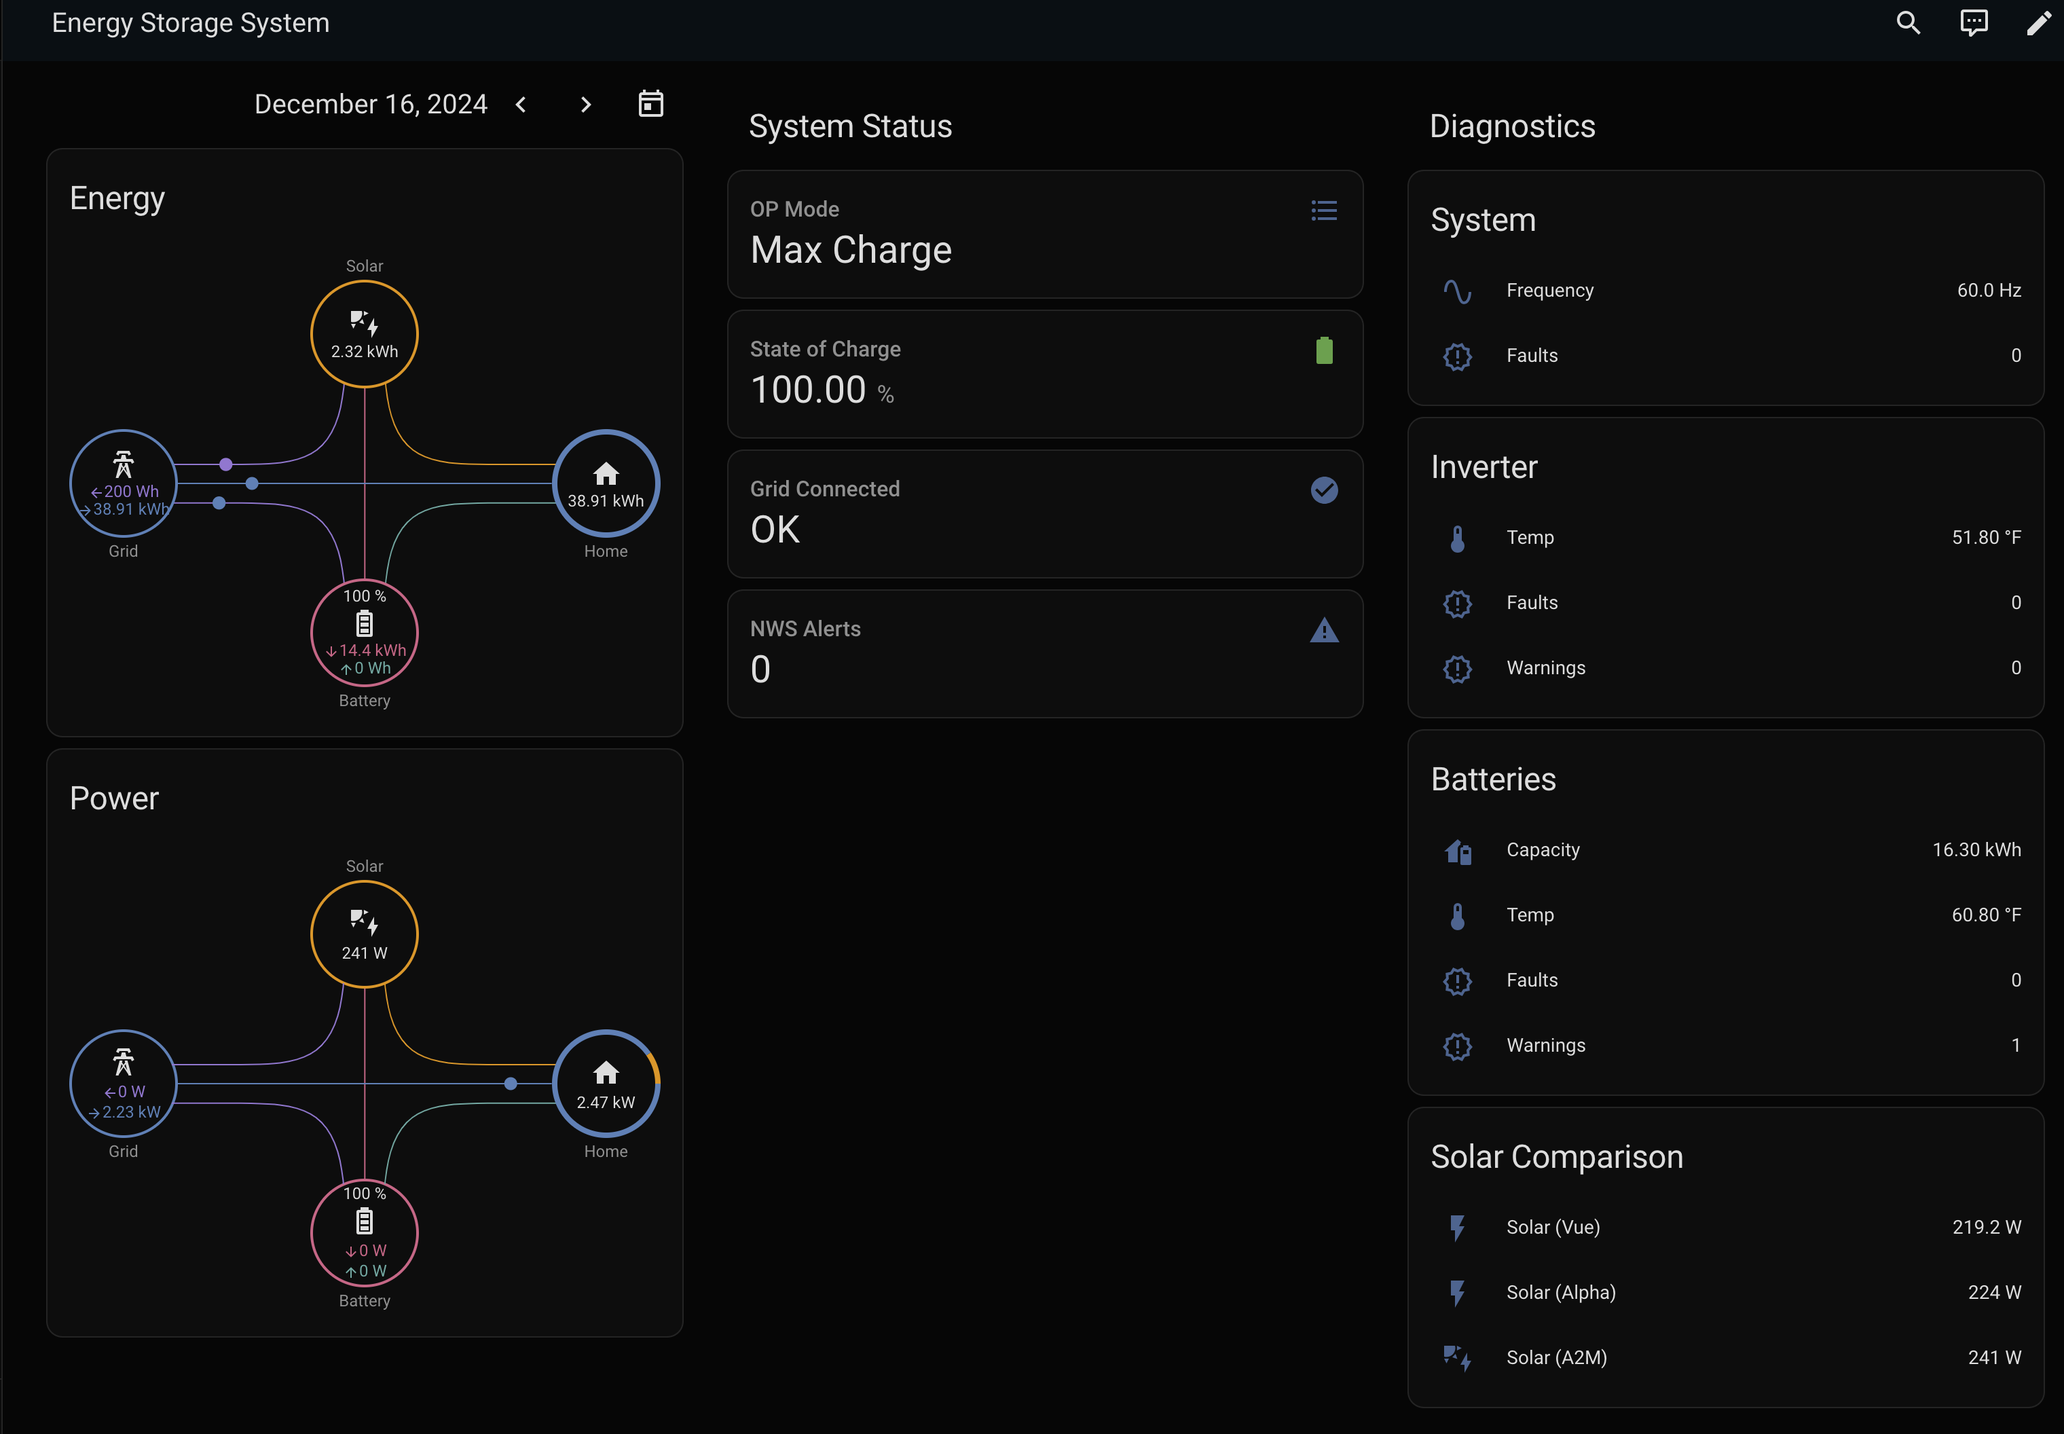
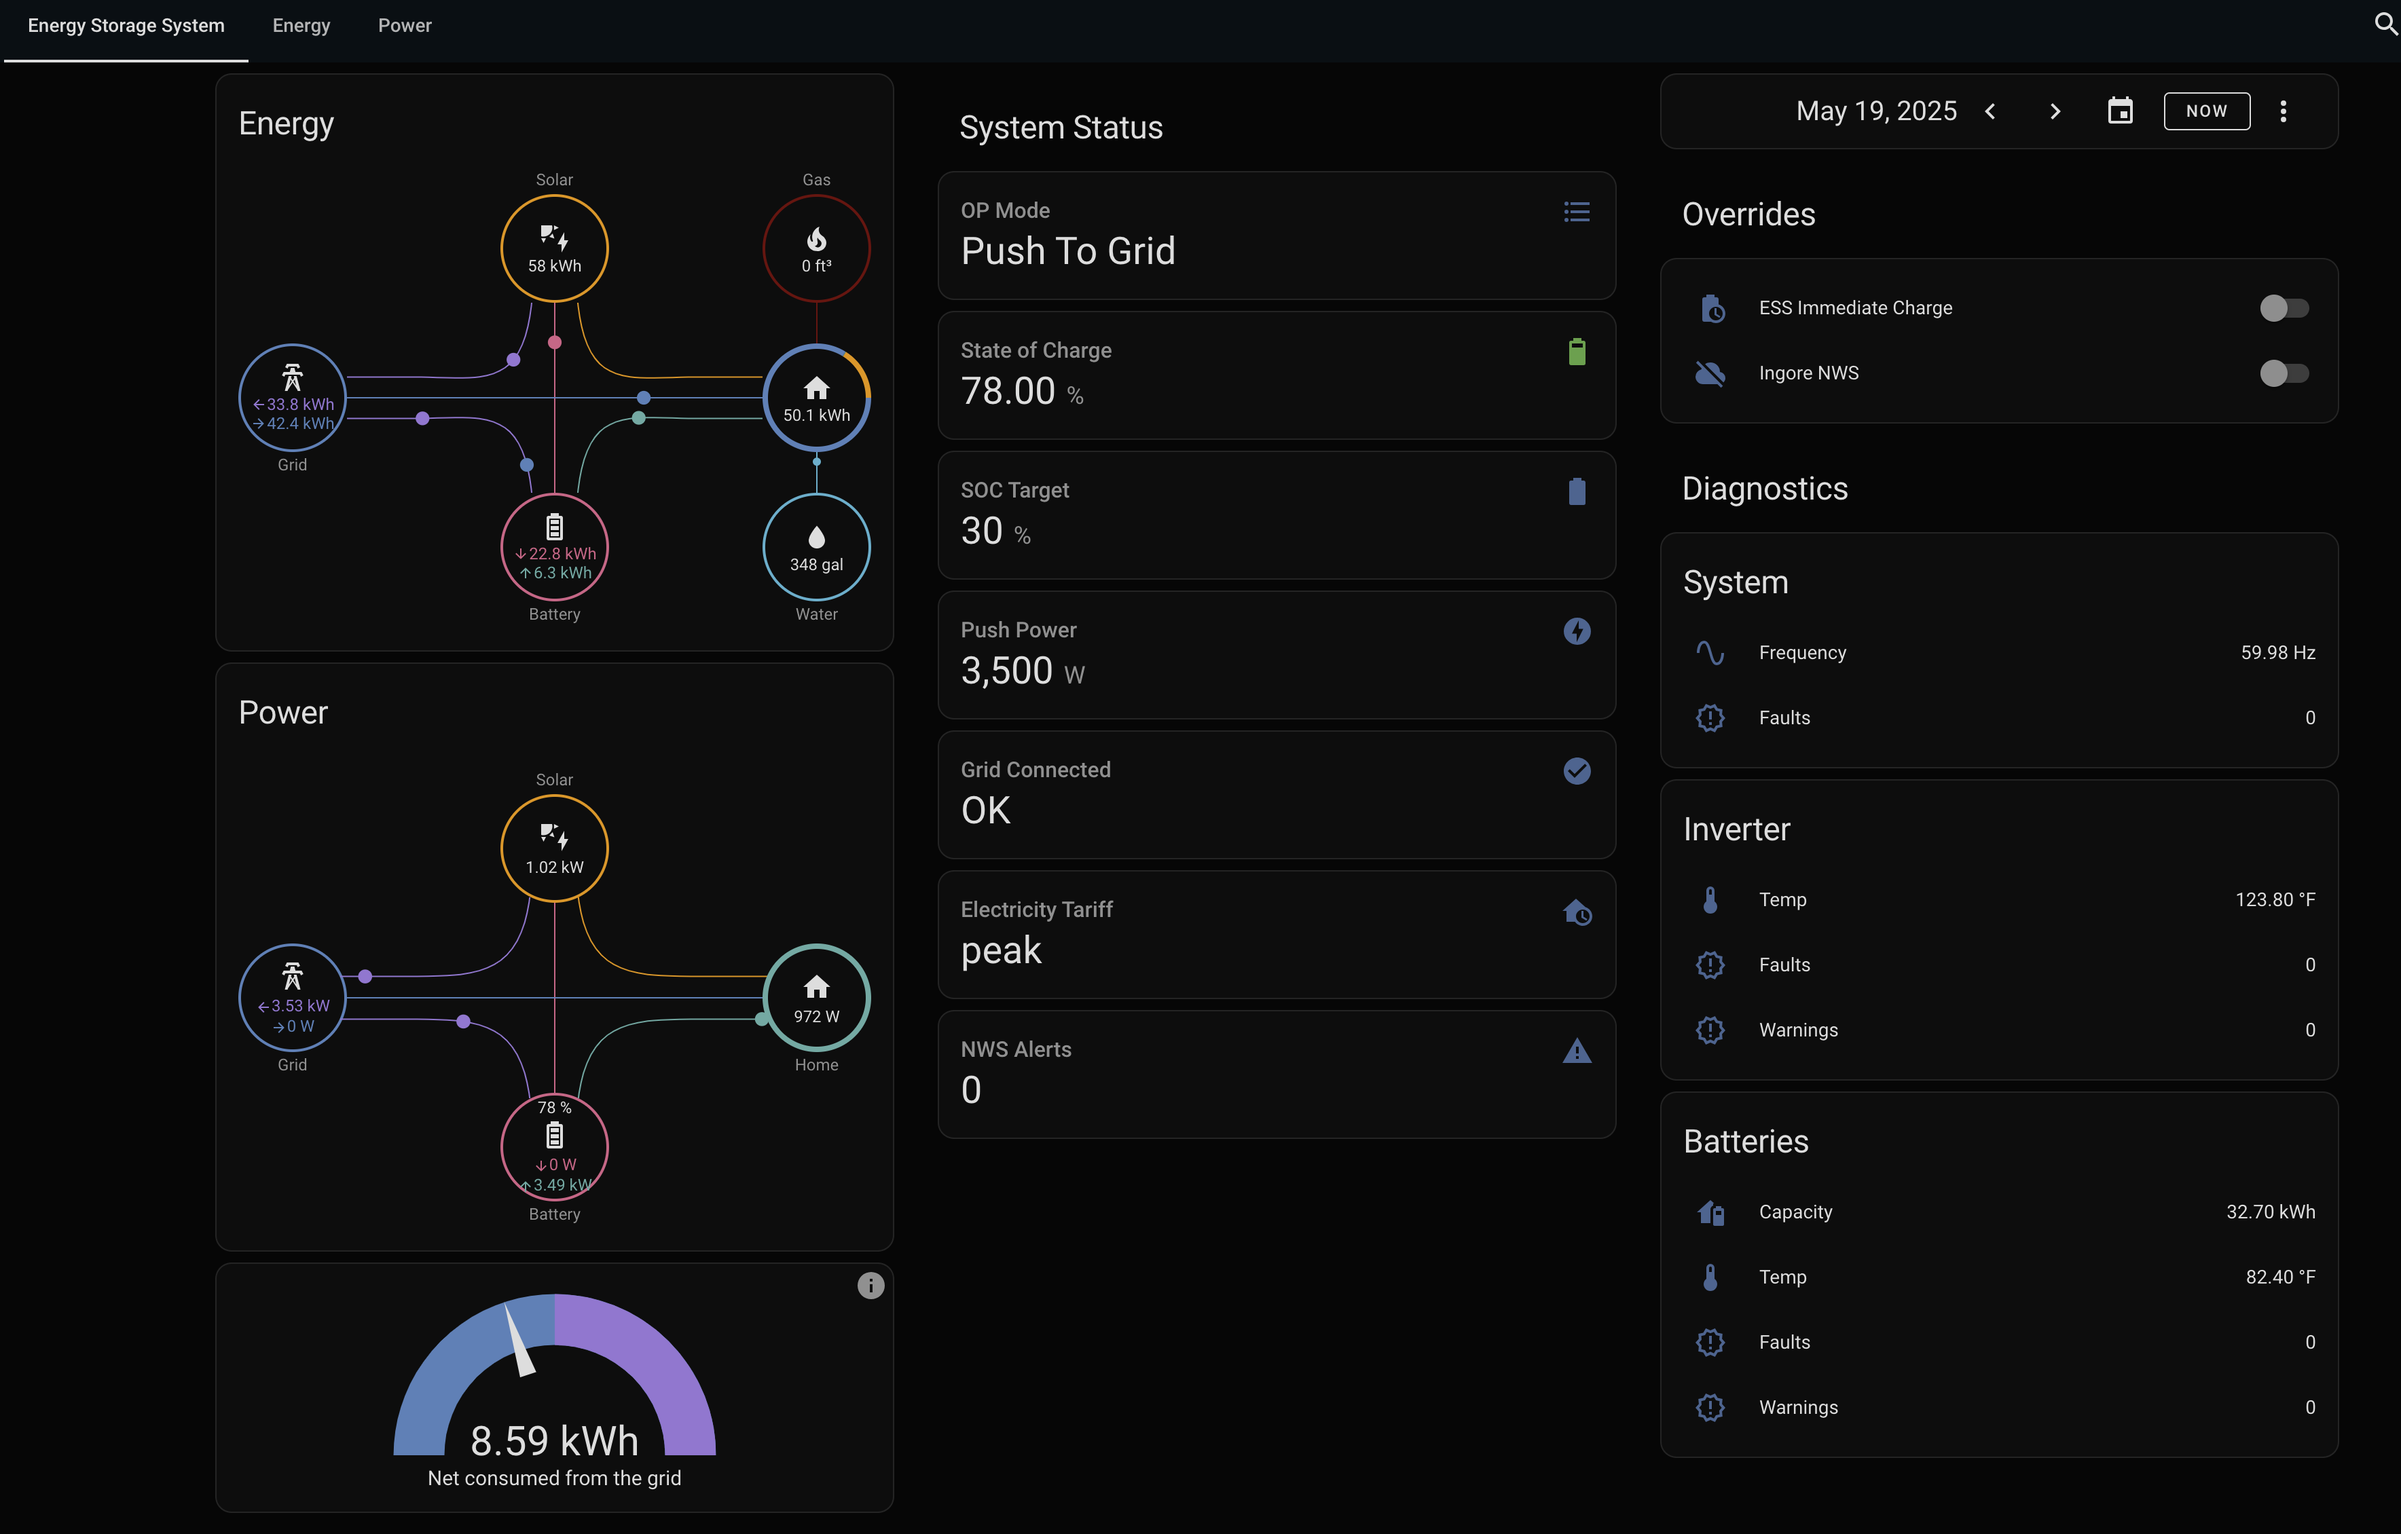
More README changes

diff --git a/README.md b/README.md
@@ -77,10 +77,12 @@ Device wiring:
 
 ### Dashboard Example
 - I tied into the Home Assistant builtin Energy dashboard by simply editing its configuration and adding grid to/from, solar, battery to/from, and battery SOC.  Voila!
-- Here is my ESS dashboard.  This was simple to make using the HA builtin visual editor. ([Here](Dave_Examples/Dave_ESS_Dashboard.yaml.txt) is the yaml.)  I used "energy-flow-card-plus" and "power-flow-card-plus" which are available through HACS.  In the middle section there are several entities that appear and disappear depending on the current Op Mode.
+- Here is my ESS dashboard.  This was simple to make using the HA builtin visual editor. ([Here](Dave_Examples/Dave_ESS_Dashboard.yaml.txt) is the yaml.)  I used the builtin"energy-distribution" card and "power-flow-card-plus" which is available through HACS.  In the middle section there are several entities that appear and disappear depending on the current Op Mode.
 ![ESS Dashboard](Pics/Dave_ESS_Dashboard.png)
 - Here is the same dashboard when the ESS is in a different Op Mode.  Note: The middle column has more entities showing in this Op Mode.
 ![ESS Dashboard](Pics/Dave_ESS_Dashboard_2.png)
+- The "Electricity Tariff" and "NWS Alerts" are the two entities on this page that don't come from Alpha2MQTT.  I include them here because my automations use these to help control the ESS.
+- You will also note that this dashboard also has views for an "Energy" (almost identical to HA's builtin Energy Dashboard) and "Power".  I won't bore you with pics, but the yaml has all the details.
 ### Automation Examples
 - ESS control - First off, I **highly** recommend that you have only ONE system controlling your ESS.  Alpha2MQTT can be used to simply monitor your ESS.  However, if you are using Alpha2MQTT to control your ESS, then be sure no other system is controlling it.  I allow the Alpha cloud to monitor my system, but it does NO control.
   - This control is a little complex, but not too bad.  Let me try to explain all the parts.
@@ -96,14 +98,14 @@ Device wiring:
 ### Tips/Hints/Suggestions
 - Only the "**Max Charge**" "Op Mode" will do cell balancing.  Other modes are fine to use, but every so often you should run a "**Max Charge**" to balance things out.
 - There are several Faults and Warnings entities for each of the system components, and each of them monitors multiple AlphaESS registers.  These entities are simple numbers, but they also have an attribute which provides more detail. Click on the entity, then click Attributes, and you will see which registers are monitored and which bits are set.
-- There is one entity ("**Register Number**") that allows you to view AlphaESS register values.  Enter a register number (in decimal, not hex) in this entity, and you will see the (formatted) value in "**Register Value**".  This is only intended for debugging.
+- There is one entity ("**Register Number**") that allows you to view the actual AlphaESS register values.  Enter a register number (in decimal, not hex) in this entity, and you will then see the (formatted) register value displayed in "**Register Value**".  This is only intended for debugging.
 
 ### Other Changes and Enhancements
 - Quite a few new registers have been added.  (See [Specs](#alphaess-specs) above.)
-- This uses an MQTT Last Will and Testament (LWT) along with 2 other statuses to set the availability of all of its entities.
-- This uses the MQTT retain flag along with other MQTT options to ensure as-graceful-as-possible handling of situations where this device, HA, or the MQTT broker might reboot or go offline.
+- This uses an MQTT Last Will and Testament (LWT) to set availability for all entities.  In addition some entities also use the RS485 status to set their availability.  And for others, even the grid status is used.
+- This uses the MQTT retain flag along with other MQTT options to ensure as-graceful-as-possible handling of situations where this device, HA, or the MQTT broker might reboot or go offline.  By default, HA is assumed to be the authority for knowing what state the ESS should be in.  If Alpha2MQTT reboots, HA will set the state upon reconnect.  However, this can be changed in `Definitions.h` so that the ESS is the authority and Alpha2MQTT will then tell HA what the state is.
 - The WiFi code has been tweaked to better handle Multi-AP environments and low signal situations.
-- The RS485 code has been tweaked to better handle more than two peers on the RS485 bus.  While this situation is rare, I had to deal with it during development because my vendor provided control via RS485 as well.  So until I trusted my device to take over, I had to make both controllers coexist.  RS485 fully supports more than two peers.  However, the MAX3485 doesn't provide enough control to make this perfect.  But I was able to make it robust enough.  Also, MODBUS says there can be only one "master" and Alpha2MQTT and my vendor's device are both masters.  But again, it still works well enough.  And now that I trust this controller, I have disconnected the vendor's device.
+- The RS485 code has been tweaked to better handle more than two peers on the RS485 bus.  While this situation is rare, I had to deal with it during development because my vendor provided control via RS485 as well.  So until I trusted my device to take over, I had to make both controllers coexist.  RS485 fully supports more than two peers.  However, the MAX3485 doesn't provide enough control to make this perfect.  But I was able to make it robust enough.  Also, MODBUS says there can be only one "master" and Alpha2MQTT and my vendor's device were both masters.  But again, it still works well enough.  And now that I trust this controller, I have disconnected the vendor's device.
 - The larger display support allows for easier debugging.  This really isn't needed for anything other than debugging.
 - There's a lot of debugging information available via MQTT and the large display.  Enabling the different DEBUG options in `Definitions.h` will add more rotating debug values on the screen and add new Diagnostic entities under the MQTT device.
 - The AlphaSniffer project is a quick and dirty RS485 sniffer that lets this hardware sniff the RS485 bus while some other master talks to your AlphaESS.  It streams the (somewhat parsed) output over TCP to a host.
